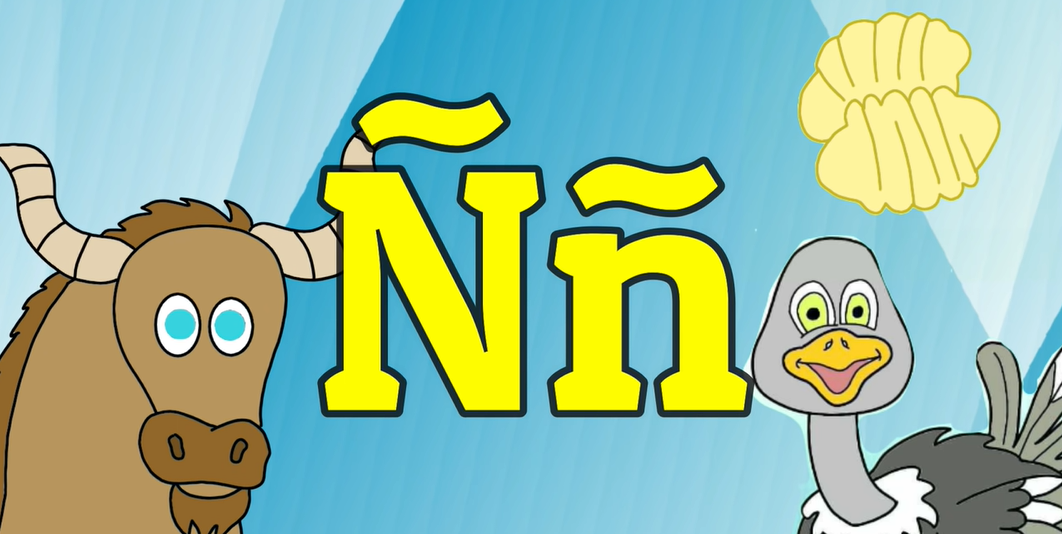
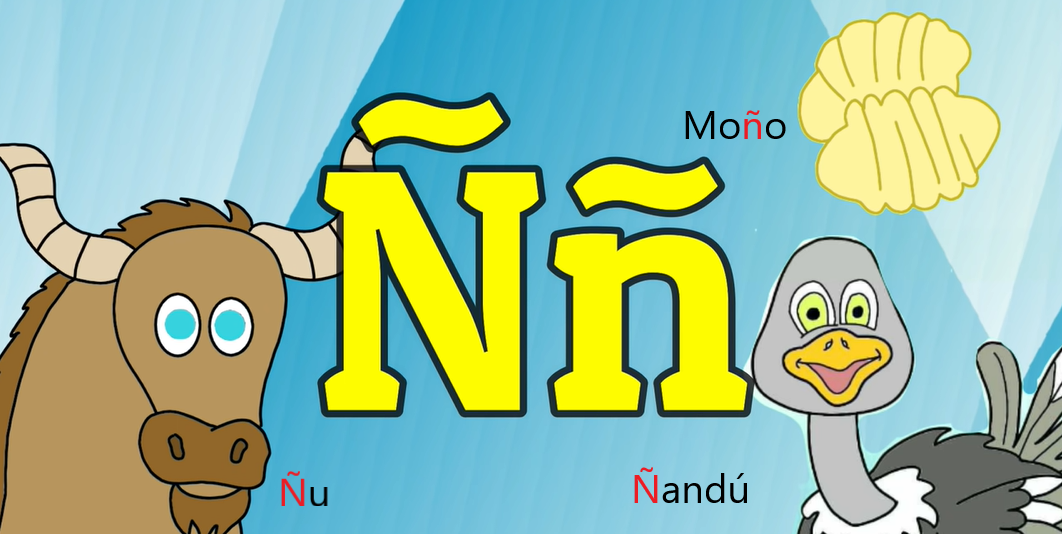
changes m-o

Changed region(s): [[0.5904, 0.8689, 0.7147, 0.9588], [0.6215, 0.2097, 0.7458, 0.2697], [0.2486, 0.8989, 0.3107, 0.9588]]

diff --git a/src/pages/draw/Draw.js b/src/pages/draw/Draw.js
@@ -54,9 +54,13 @@ function Draw() {
     { photo: ["../../../images/letraK.png"] },
     { photo: ["../../../images/letraL.png"] },
     { photo: ["../../../images/letraLl.png"] },
-    { photo: ["../../../images/letram.png"] },
-    { photo: ["../../../images/letran.png"] },
+    { photo: ["../../../images/abc13.png"] },
+    { photo: ["../../../images/letraM.png"] },
+    { photo: ["../../../images/abc14.png"] },
+    { photo: ["../../../images/letraN.png"] },
+    { photo: ["../../../images/abc15.png"] },
     { photo: ["../../../images/letrañ.png"] },
+    { photo: ["../../../images/abc16.png"] },
     { photo: ["../../../images/letrao.png"] },
     { photo: ["../../../images/abc17.png"] },
     { photo: ["../../../images/abc18.png"] },
